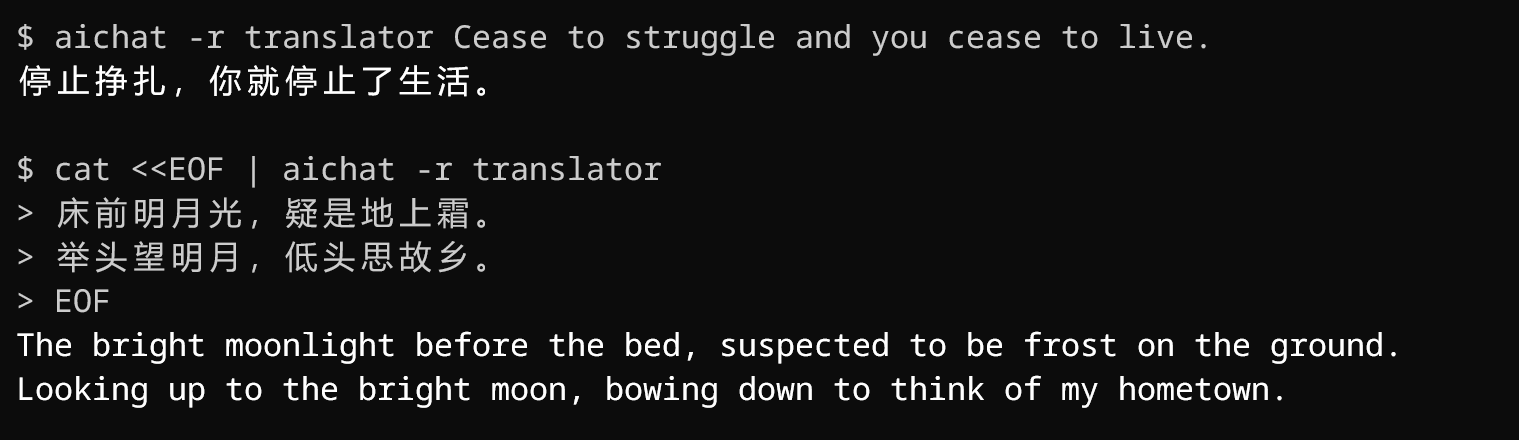
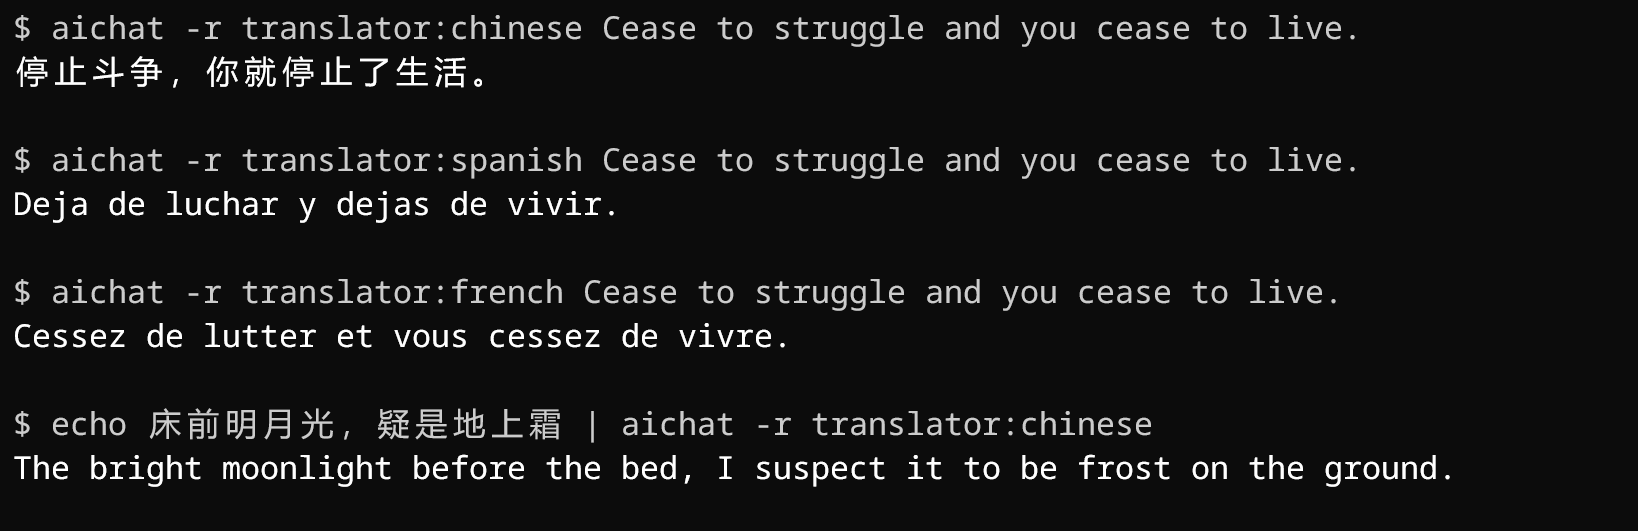
add Role-Guide.md and do batch updates

diff --git a/Role-Examples.md b/Role-Examples.md
@@ -56,16 +56,14 @@ Showcase
 
 </details>
 
-## Convert text format
+## Format converter
 
-Convert json to yaml
-```
-cat data.json | aichat -H convert json below to yaml
-```
-
-Convert json to toml
-```
-cat data.json | aichat -H convert json below to toml
+```yaml
+- name: convert:json:yaml
+  prompt: >
+    convert __ARG1__ below to __ARG2__.
+    I want you to answer only with the converted text.
+    Do not write explanations.
 ```
 
 <details>
@@ -73,7 +71,7 @@ cat data.json | aichat -H convert json below to toml
 Showcase
 </summary>
 
-![convert text format showcase](./images/convert-text-format-showcase.png)
+![format converter showcase](./images/format-convert-showcase.png)
 
 </details>
 
@@ -81,7 +79,7 @@ Showcase
 ## Alternative
 
 ```yaml
-- name: alternative 
+- name: alternative
   prompt: >
     Please recommend 4-5 packages or libraries that are similar to the one provided by the user,
     sorted by similarity, by providing only the name of the package or library, without additional descriptions or explanations.
@@ -120,13 +118,12 @@ Showcase
 ## Translator
 
 ```yaml
-- name: translator
+- name: translator:chinese
   prompt: >
-    You will act as a translator between Chinese and English.
+    You will act as a translator between english and __ARG1__.
     Whenever you receive a prompt in either language, you will translate the text into the opposite language and provide the translated output as your response.
-    Please ensure that your response contains only the translated text, 
-    No additional descriptions or explanations, No tags or comments to indicate language translation direction.
-    My sentense is: __INPUT__
+    Please ensure that your response contains only the translated text.
+    No additional descriptions or explanations, No tags or comments to indicate language direction.
 ```
 
 <details>
@@ -135,5 +132,24 @@ Showcase
 </summary>
 
 ![translator showcase](./images/translator-showcase.png)
+
+</details>
+
+## i18n
+
+```yaml
+- name: i18n:chinese
+  prompt: >
+    Translate a i18n locale json content to __ARG1__.
+    It's a key-value structure, don't translate the key.
+    Consider the context of the value to make better translation.
+```
+
+<details>
+<summary>
+Showcase
+</summary>
+
+![i18n showcase](./images/i18n-showcase.png)
 
 </details>

diff --git a/Role-Guide.md b/Role-Guide.md
@@ -1,0 +1,90 @@
+# Role Guide
+
+## Role Structure
+
+Role consists of three parts: `name`, `prompt`, and optional `temperature`
+
+```yaml
+- name: shell
+  prompt: >
+    I want you to act as a linux shell expert.
+    I want you to answer only with code.
+    Do not write explanations.
+  temperature: 0.7
+```
+
+## Role Prompt Type
+
+There are two types of role prompt: `attached` and `unattached`.
+
+### Attached prompt
+
+If prompt contains `__INPUT___`, it's attached prompt
+
+Here is an example of the attached prompt:
+
+```yaml
+- name: emoji
+  prompt: convert __INPUT__  to emoji
+```
+
+If we run `aichat -r emoji angry`, aichat send following messages to gpt internally:
+
+```json
+[
+  {"role": "user", "content": "convert angry to emoji"}
+]
+```
+
+The `__INPUT__` in the prompt will be replaced by user input to form one user message.
+
+### Unattached prompt
+
+If prmopt don't contain `__INPUT___`, it's  unattached prompt.
+
+Here is an example of the attached prompt:
+
+```yaml
+- name: emoji
+  prompt: convert my words to emoji
+```
+
+If we run `aichat -r emoji angry`, aichat send following messages to gpt internally:
+
+```json
+[
+  {"role": "system", "content": "convert my words to emoji"}
+  {"role": "user", "content": "angry"}
+]
+```
+
+Prompt will become a `system` message, user input will become a `user` message.
+
+
+## Role Args
+
+We can use role args to pass some additional arguments to the prompt.
+
+```
+- name: convert:json:yaml
+  prompt: convert __ARG1__ below to __ARG2__
+```
+
+`:json:yaml` is `role args`. It has two args:
+
+- arg1 `json` will replace `__ARG1__` in prompt
+- arg2 `yaml` will replace `__ARG2__` in prompt
+
+
+If we run `aichat -r convert:json:yaml`, the prompt will be
+
+```
+convert json below to yaml
+```
+
+If we run `aichat -r convert:yaml:toml`, the prompt will be
+```
+convert yaml below to toml
+```
+
+Different role args will generate different prompts.

diff --git a/Home.md b/Home.md
@@ -1,4 +1,5 @@
 Welcome to the aichat wiki!
 
 - [Environment Variables](./Environment-Variables)
+- [Role Guide](./Role-Guide)
 - [Role Examples](./Role-Examples)
